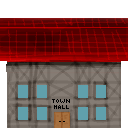
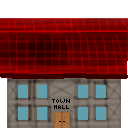
Updated some tiles Stone now has a good concept - top needs to be better, need sidepieces

diff --git a/crown/Game1.cs b/crown/Game1.cs
@@ -128,8 +128,8 @@ namespace crown {
       Point mousePoint = new Point(mouseState.X, mouseState.Y);
 
       if (mouseState.LeftButton == ButtonState.Pressed 
-        && !menu.MainRect.Contains(mousePoint) 
-        && (oldState.LeftButton == ButtonState.Released || Keyboard.GetState().IsKeyDown(Keys.LeftShift))) {
+          && !menu.MainRect.Contains(mousePoint) 
+          && (oldState.LeftButton == ButtonState.Released || Keyboard.GetState().IsKeyDown(Keys.LeftShift))) {
         // Mouse interaction with the game world
         GameInteraction();
 

diff --git a/crown/SpriteSheets/buildingAtlas.cs b/crown/SpriteSheets/buildingAtlas.cs
@@ -4,7 +4,7 @@
  * Contains references to each image within the sprite sheet.
  *
  * http://www.codeandweb.com/texturepacker
- * $TexturePacker:SmartUpdate:f5954d70b69967519dae88e64905e3cc:4cb1c8c9dd9f880c557b62f108225b23:905072b72ea92acf8fa5b0216a681f3c$
+ * $TexturePacker:SmartUpdate:76fdec0e0eaff1effae28631e0ea6435:2ce4956c16fb1da6eac734220ed7c65e:905072b72ea92acf8fa5b0216a681f3c$
  *
  */
 namespace TexturePackerMonoGameDefinitions

diff --git a/crown/SpriteSheets/tileAtlas.cs b/crown/SpriteSheets/tileAtlas.cs
@@ -4,7 +4,7 @@
  * Contains references to each image within the sprite sheet.
  *
  * http://www.codeandweb.com/texturepacker
- * $TexturePacker:SmartUpdate:4dd546428ddeac41a90caa6dc38a581c:09d951d8bb53cb4a6e92c2f2df0f4f90:15e80e53d973510bcd3d7c2616e35315$
+ * $TexturePacker:SmartUpdate:90442052198547164a647d72ba42ce5a:a20d4c4478c308ea52d772b052857fc9:15e80e53d973510bcd3d7c2616e35315$
  *
  */
 namespace TexturePackerMonoGameDefinitions
